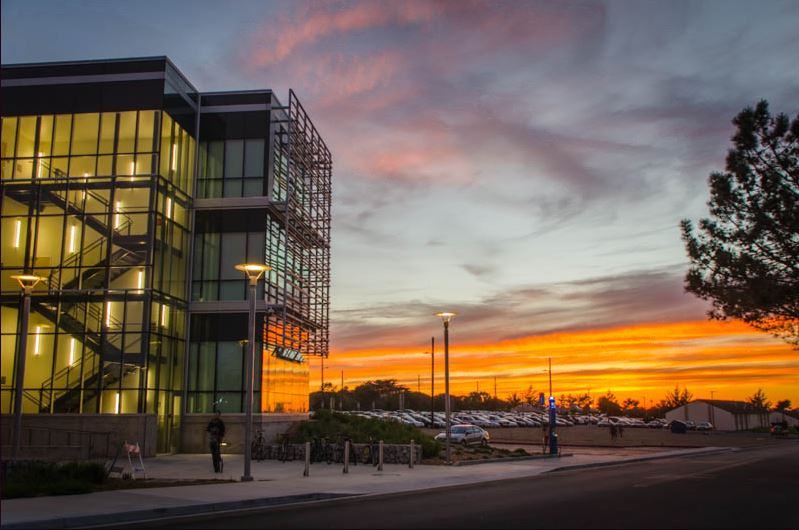
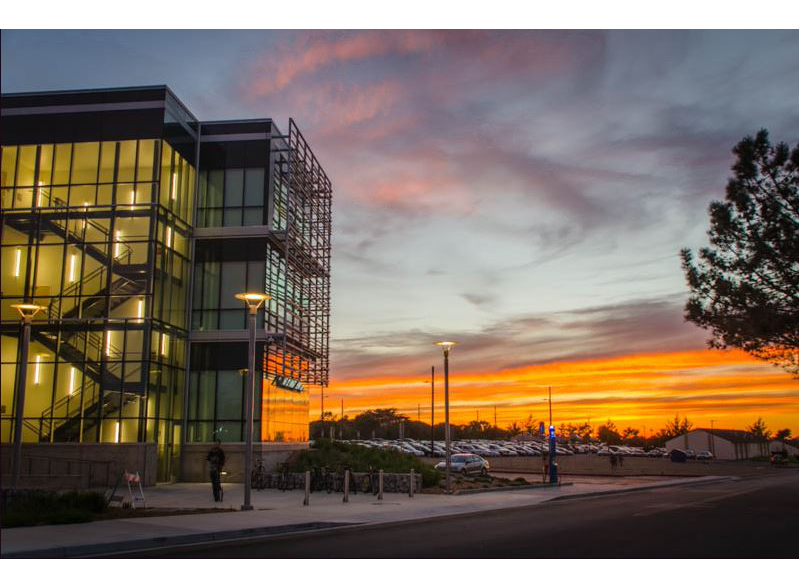
Resized photos

diff --git a/index.html b/index.html
@@ -55,7 +55,7 @@
             <div class="col-md-4">
               <div class="card mb-4 box-shadow">
                 <h5 class = "project-title">Smart Mirror</h5>
-                <img class="card-img-top" src="./img/smart-mirror.jpg" alt="Card image cap">
+                <img class="card-img-top" src="./img/smart-mirror.jpg" alt="Smart Mirror">
                 <div class="card-body">
                   <p class="card-text">A Smart Mirror which displays the current weather, date/time and traffic conditions.</p>
                   <div class="d-flex justify-content-between align-items-center">
@@ -70,7 +70,7 @@
             <div class="col-md-4">
               <div class="card mb-4 box-shadow">
                 <h5 class = "project-title">Photo Assistant</h5>
-                <img class="card-img-top" src="./img/photo-assistant.jpg" alt="Card image cap">
+                <img class="card-img-top" src="./img/photo-assistant.jpg" alt="Photo Assistant">
                 <div class="card-body">
                   <p class="card-text">A Photo Assistant that will take pictures and check whether or not the subject was blinking</p>
                   <div class="d-flex justify-content-between align-items-center">
@@ -85,7 +85,7 @@
             <div class="col-md-4">
               <div class="card mb-4 box-shadow">
                 <h5 class = "project-title">Prime Number Generator</h5>
-                <img class="card-img-top" src="./img/prime.jpg" alt="Card image cap">
+                <img class="card-img-top" src="./img/prime.jpg" alt="Prime Number Generator">
                 <div class="card-body">
                   <p class="card-text">A script I wrote to run on my Raspberry Pi over the Summer to see how large of a prime number I could find.</p>
                   <div class="d-flex justify-content-between align-items-center">
@@ -101,7 +101,7 @@
             <div class="col-md-4">
               <div class="card mb-4 box-shadow">
                 <h5 class = "project-title">PingPy</h5>
-                <img class="card-img-top" src="./img/ping-py.jpg" alt="Card image cap">
+                <img class="card-img-top" src="./img/ping-py.jpg" alt="PingPy">
                 <div class="card-body">
                   <p class="card-text">A tool I wrote to help me detect host availability.</p>
                   <div class="d-flex justify-content-between align-items-center">
@@ -116,7 +116,7 @@
             <div class="col-md-4">
               <div class="card mb-4 box-shadow">
                 <h5 class = "project-title">Median Filter</h5>
-                <img class="card-img-top" src="./img/median-filter.jpg" alt="Card image cap">
+                <img class="card-img-top" src="./img/median-filter.jpg" alt="Median Filter">
                 <div class="card-body">
                   <p class="card-text">Uses median pixel value for each pixel (between a series of images) to filter out non-static artifacts.</p>
                   <div class="d-flex justify-content-between align-items-center">
@@ -131,9 +131,9 @@
             <div class="col-md-4">
               <div class="card mb-4 box-shadow">
                 <h5 class = "project-title">Cygnus</h5>
-                <img class="card-img-top" src="./img/cygnus.jpg" alt="Card image cap">
+                <img class="card-img-top" src="./img/cygnus.jpg" alt="Cygnus">
                 <div class="card-body">
-                  <p class="card-text">A 2D platformer a few classmates and I worked on for our Capstone project.</p>
+                  <p class="card-text">A 2D platforming game a few classmates and I worked on for our Capstone project.</p>
                   <div class="d-flex justify-content-between align-items-center">
                     <div class="btn-group">
                       <button type="button" class="btn btn-sm btn-outline-secondary">View</button>
